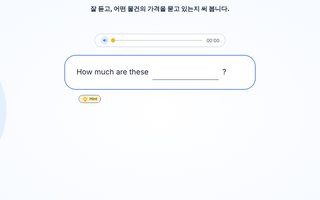
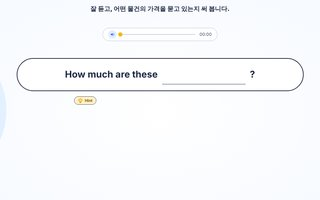
lblank/lpwrite: 기존 듣기·빈칸 템플릿과 위치·크기 맞춤 (소리 막대 위치, 문장 캡슐)
Claude-Session: https://claude.ai/code/session_01NrDAbCMeQGxPyJ4qzxdf1W

diff --git a/packages/play/src/styles.css b/packages/play/src/styles.css
@@ -841,8 +841,9 @@ p.nv-heard { margin:0; color:var(--nv-sub); font-size:.95em; }
 .nv-lmw-in em { font-style:normal; color:#1F2A44; font-size:1.1em; } .nv-lmw-in input { flex:1; min-width:0; border:0; outline:0; font:inherit; background:transparent; }
 .nv-lmw-in:focus-within { border-color:var(--nv-blue); box-shadow:0 0 0 .18em rgba(79,125,240,.18); } .nv-lmw-in.ok { background:#F2FBF5; border-color:#7BC89A; } .nv-lmw-in.ok input { color:#1E8E4E; font-weight:700; } .nv-lmw-in.bad { border-color:#D64545; background:#FFF1F0; }
 /* 소리 막대(lblank): ▶ + 진행 막대 + 시간 */
-.nv-lblank { align-items:center; }
-.nv-abar { display:flex; align-items:center; gap:.8em; width:min(26em,92%); height:2.6em; padding:0 1.1em; margin:1.2em auto 1.6em; border:.08em solid #B8C2D4; border-radius:2em; background:#fff; font-size:1.05em; }
+.nv-lblank { align-items:center; } .nv-wbody.nv-wtop.nv-lblank { padding-top:15.5vh; }
+/* 소리 막대는 다른 듣기 템플릿의 '듣기' 버튼과 같은 자리(위에서 2.4em)·같은 높이에 둔다 */
+.nv-lblank > .nv-abar { position:absolute; top:2.2em; left:50%; transform:translateX(-50%); display:flex; align-items:center; gap:.8em; width:min(24em,92%); height:2.75em; padding:0 1.1em; margin:0; border:.08em solid #B8C2D4; border-radius:2em; background:#fff; box-sizing:border-box; }
 .nv-abar-btn { flex:none; width:1.8em; height:1.8em; padding:0; border:0; border-radius:50%; background:#E3EDFF; display:grid; place-items:center; cursor:pointer; }
 .nv-abar-btn.on { background:#3B6FD8; } .nv-abar-btn.on .nv-sico { filter:brightness(0) invert(1); }
 .nv-abar-track { position:relative; flex:1; height:.14em; background:#C9D1E0; border-radius:.1em; }
@@ -851,7 +852,6 @@ p.nv-heard { margin:0; color:var(--nv-sub); font-size:.95em; }
 .nv-abar-time { flex:none; font-size:.9em; color:#3a4560; font-variant-numeric:tabular-nums; } .nv-abar-left { flex:none; font-size:.8em; color:#6b7893; }
 /* 듣고 그림에 맞게 쓰기(lpwrite): 듣기 버튼 아래에 그림 카드 3~4장, 카드마다 답 칸 */
 .nv-lpw { gap:0; align-items:center; }
-.nv-lpw > .nv-listen.nv-listen-top { position:static; transform:none; margin:1.6em 0 0; }
 .nv-lpw-cards { display:flex; justify-content:center; flex-wrap:wrap; gap:1.2em; width:100%; max-width:54em; margin-top:2.6em; }
 .nv-lpw-card { flex:1 1 13em; max-width:17em; display:flex; flex-direction:column; align-items:center; gap:.7em; padding:1em .8em 1.2em; border:.08em solid #C5CEDC; background:#fff; }
 .nv-lpw-card.ok { border-color:#7BC89A; }
@@ -902,5 +902,3 @@ p.nv-heard { margin:0; color:var(--nv-sub); font-size:.95em; }
 .nv-setroot .nv-rv .nv-ptools { display:flex; justify-content:center; margin:.2em 0; }
 
 .nv-rv-tools { display:flex; justify-content:center; margin:.1em 0; }
-/* 듣고 빈칸 쓰기(lblank): 문장 상자를 둥근 알약 모양으로 넓게 */
-.nv-lblank .nv-bl.nv-bl-box { border-radius:2.4em; width:min(40em,94%); border-color:#4F7DF0; }

diff --git a/packages/play/src/kinds4.tsx b/packages/play/src/kinds4.tsx
@@ -246,9 +246,9 @@ export function LBlank({ item, onDone }: KindProps) {
   const info = useRef<BInfo | null>(null); const [foc, setFoc] = useState<number | null>(null);
   const bh: string[] = item.blankHints ?? [];
   return (
-    <div className="nv-body nv-wbody nv-lblank">
+    <div className="nv-body nv-wbody nv-wtop nv-lblank">
       <AudioBar text={item.say ?? ''} max={item.plays} />
-      <Blanks lines={item.lines ?? []} ans={item.ans ?? []} big box onDone={onDone} tag="listen" info={info} onFoc={setFoc} />
+      <Blanks lines={item.lines ?? []} ans={item.ans ?? []} big cap onDone={onDone} tag="listen" info={info} onFoc={setFoc} />
       <HintBox lines={foc != null && bh[foc] ? [bh[foc]] : item.hint ?? []} item={item} ctx={() => ({ input: `The student listens to a short dialogue and fills in the blank(s).\n${blanksDesc(item.lines ?? [], info.current, foc)}\nScript the student heard:\n${item.say ?? ''}`, wrong: info.current?.wrong.filter(Boolean).length ?? 0 })} />
     </div>
   );
